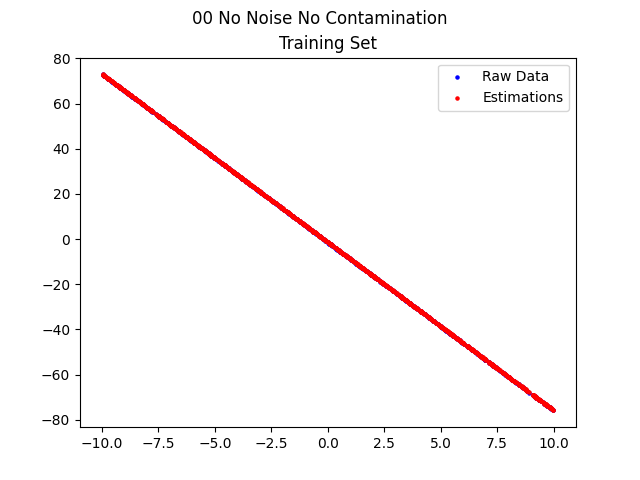
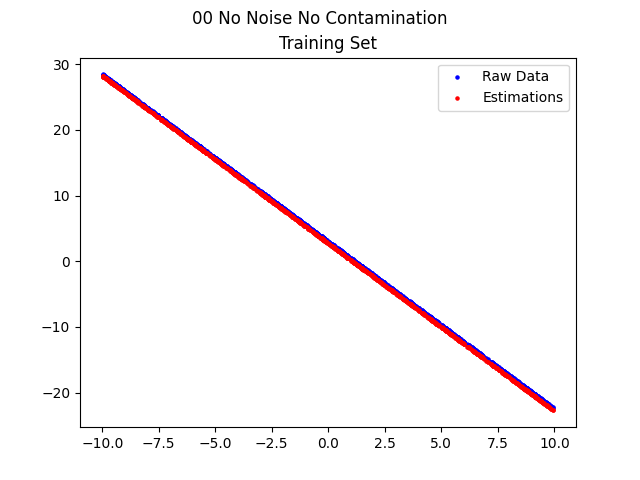
slight modifications

diff --git a/main.py b/main.py
@@ -6,8 +6,11 @@ from statistics import stdev
 from typing import Tuple
 
 DEBUG = False
-losses_log_filename = "losses.csv"
-batch_index = 0
+if DEBUG:
+    losses_log_filename = "losses.csv"
+    with open(losses_log_filename, "w") as f:
+        pass
+    batch_index = 0
 
 
 def trimmed_squared_loss_and_gradient(
@@ -46,7 +49,7 @@ def mini_batch_gradient_descent(
     sample_size, dimension = X.shape
     rng = np.random.default_rng()
     X = np.c_[np.ones(sample_size), X]
-    w = np.full(dimension + 1, 0.5)
+    w = np.ones(dimension + 1)
     if batch_size == 0:
         prev_loss, gradient = trimmed_squared_loss_and_gradient(
             X, w, y, epsilon)
@@ -63,7 +66,7 @@ def mini_batch_gradient_descent(
             indices = rng.choice(sample_size, batch_size, False)
             loss, gradient = trimmed_squared_loss_and_gradient(
                 X[indices], w, y[indices], epsilon)
-        if abs(loss - prev_loss) / prev_loss < 0.001:
+        if abs(loss - prev_loss) / prev_loss < 1e-3:
             return w
         prev_loss = loss
     return w
@@ -165,7 +168,7 @@ def test_no_contamination():
     w_high = 10
     x_low = -10
     x_high = 10
-    noise_level = 1
+    noise_level = 0.5
     training_size = 1000
     testing_size = 1000
     epsilon = 0
@@ -195,10 +198,10 @@ def test_random_contamination():
     w_high = 10
     x_low = -10
     x_high = 10
-    noise_level = 1
+    noise_level = 0.5
     training_size = 1000
     testing_size = 1000
-    epsilon = 0.2
+    epsilon = 0.5
 
     rng = np.random.default_rng()
     w = rng.uniform(w_low, w_high, 2)
